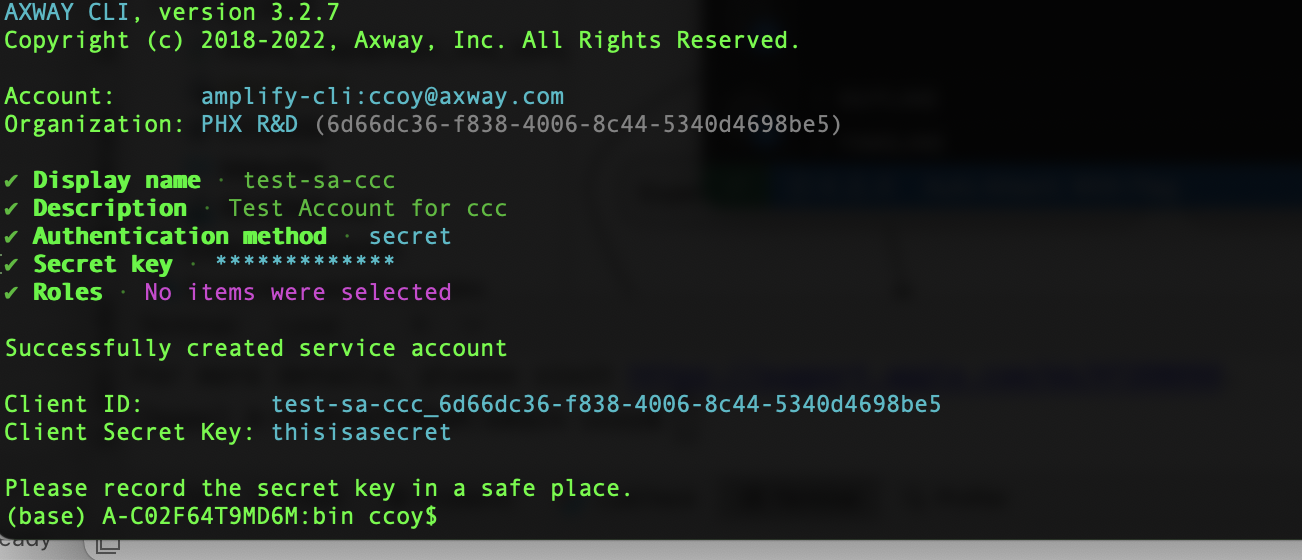
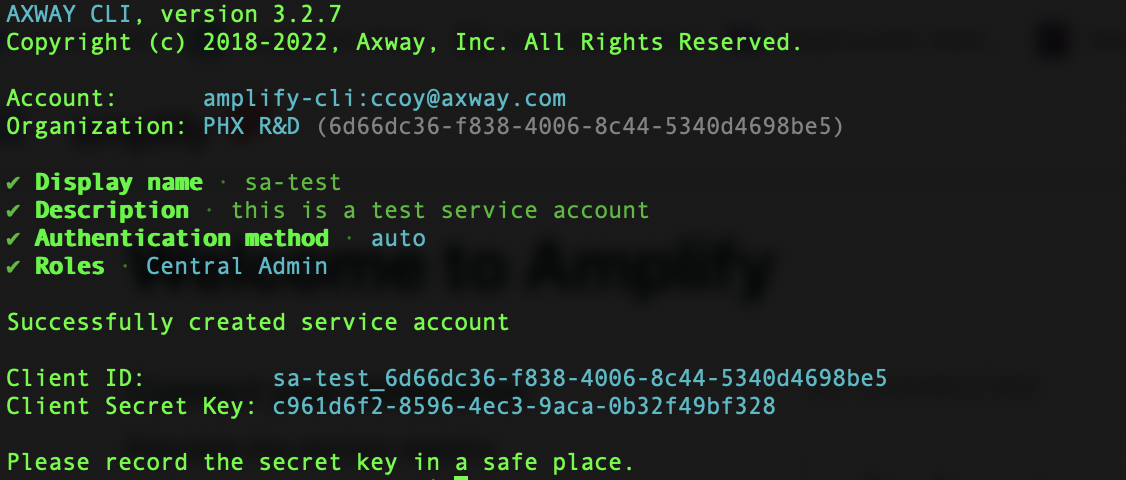
Adding suggestions from lbrenman

Changed region(s): [[0.0, 0.1562, 1.0, 1.0], [0.0, 0.0, 0.7149, 0.125]]

diff --git a/content/en/docs/integrate_with_central/platform-auth-examples.md b/content/en/docs/integrate_with_central/platform-auth-examples.md
@@ -7,13 +7,11 @@ A step-by-step guide for authorizing clients to make REST calls to the Amplify P
 
 1. ***Install the Axway CLI***: [https://docs.axway.com/bundle/axwaycli-open-docs/page/docs/quick\_start/index.html](https://docs.axway.com/bundle/axwaycli-open-docs/page/docs/quick_start/index.html)
 
-2. ***Install JQ***:  [https://github.com/stedolan/jq](https://github.com/stedolan/jq)
+## Create your service account
 
-JQ is needed for parsing the authorization response and extracting the bearer token and org ID required in the HTTP request headers.
+A service account is an Amplify concept that allows for a non-user, such as a CLI or headless process, to gain access to the platform services and will be granted specific roles and privileges within an organization. You can create your service account(s) using the CLI or directly within the UI.
 
-## Create your service account via the CLI
-
-A service account is an Amplify concept that allows for a non-user, such as a CLI or headless process, to gain access to the platform services and will be granted specific roles and privileges within an organization.
+### Create the service account via the CLI
 
 * From the command line, log into the platform using:
 
@@ -41,30 +39,69 @@ A service account is an Amplify concept that allows for a non-user, such as a CL
 
   ![service account list screen](/Images/integration/service-account-list.png)
 
+### Create the service account via the CLI
+
+* From the Platform screen, select the dropdown in the right-hand corner and choose **_Organization_**
+
+  ![organization drop down screen](/Images/integration/organization-drop-down.png)
+
+* From the Service Accounts screen select the button labeled **_+ Service Account_**
+
+  ![ui create service account screen](/Images/integration/ui-create-service-account.png)
+
+* Fillout the following form. Here we are choosing Client Secret, Platform Generated and the Central Admin role. Next, select the button labeled **_Save_**
+
+  ![ui service account form screen](/Images/integration/ui-service-account-form.png)
+
+* You will now be presented with a popup screen where you can copy your generated secret. You need to store this secret as this is the only time it will ever be displayed
+
+  ![ui service account form screen](/Images/integration/ui-service-account-secret.png)
+
+* You now have your service account and can use the Client Id and Secret to Authenticate to the platform
+
+  ![ui service account form screen](/Images/integration/ui-service-account-client-id.png)
+
 ## Using your Service Account
 
 Now that you have created your service account with client and secret, you can reuse this approach in a scripted manner.
 
 ### Authorization
 
+If you are interested in using cURL or Postman, the easiest way to authenticate is by using the CLI. However, in the event that you need to embed authorization within a compiled application, see the section [here](#alternative-approach-to-call-auth-server-directly).
+
 #### Using the CLI Directly
 
-##### Capture the Auth Result as a JSON Body
 
 ```sh
-authResult=$(axway auth login --client-id test-sa-ccc_6d66dc36-f838-4006-8c44-5340d4698be5 --client-secret thisisasecret --json)
+axway auth login --client-id sa-test_6d66dc36-f838-4006-8c44-5340d4698be5 --client-secret c961d6f2-8596-4ec3-9aca-0b32f49bf328 --json
 ```
 
-The command above will fulfill the authorization flow and cause the client ID and Secret to be base64 encoded and then passed to the auth server and then subsequently use the token to call platform services (The alternative-- manual steps, are outlined below for clarity).
 
-##### Extract the Bearer Token and TenantID
+The command above will fulfill the authorization flow and cause the client ID and Secret to be base64 encoded and then passed to the auth server and then subsequently use the token to call platform services. 
 
-```sh
-token=$(echo $authResult | jq -r '.auth.tokens.access_token')
-tenantID=$(echo $authResult | jq -r '.org.id')
+You can extract and use the token from the resulting JSON response:
+
+```
+{
+  "auth": {
+    "authenticator": "ClientSecret",
+    "baseUrl": "https://login.axway.com",
+    "clientId": "sa-test_6d66dc36-f838-4006-8c44-5340d4698be5",
+    "env": "prod",
+    "expires": {
+      "access": 1669920901070,
+      "refresh": null
+    },
+    "realm": "Broker",
+    "tokens": {
+      "access_token": "eyJhbGciOiJSUzI1NiIsInR5cCI...",
+            ...
+      }
+      ...
+}
 ```
 
-#### Alternative approach call auth server directly
+#### Alternative approach to call auth server directly
 
 This approach is more cumbersome, but demonstrates what is necessary if you decide to build an application using a language like JavaScript, Java or Golang.  
 
@@ -83,8 +120,6 @@ curl --location --request POST 'https://login.axway.com/auth/realms/Broker/proto
 --data-urlencode 'grant_type=client_credentials'
 ```
 
-You can extract and use the token from the resulting JSON response:
-
 ```
 {
   "access_token": "eyJhbGciOiJSUzI1NiIsInR5cCIgOiAiSldUIiwia2lkIiA6ICJKLUhJOWxTbE5fYUxMSj...",
@@ -98,15 +133,14 @@ You can extract and use the token from the resulting JSON response:
 
 ### Making the API Calls
 
-Now that you have a valid bearer token and the Tenant ID you can make platform calls as outlined in API docs. For example:  
+Now that you have a valid bearer token and the Tenant ID you can make platform calls as outlined in [Amplify Platform API docs](https://docs.axway.com/category/api). For example:  
 
 #### Calling Central  
 
 ```
 curl --location --request GET 'https://apicentral.axway.com/apis/management/v1alpha1/environments' \
 --header "Authorization: Bearer ${token}" \
---header "Content-Type: application/json" \
---header "X-Axway-Tenant-Id: 652605300303530"
+--header "Content-Type: application/json" 
 ```
 
 #### Calling Tracability
@@ -114,6 +148,13 @@ curl --location --request GET 'https://apicentral.axway.com/apis/management/v1al
 ```
 curl --location --request GET 'https://apicentral.axway.com/api/traceability/v1/traceability/summary?groupBy=proxyId&groupBy=proxyRevision&count=10&offset=0&from=1668895561864&to=1669500361864' \
 --header "Authorization: Bearer ${token}" \
---header "Content-Type: application/json" \
---header "X-Axway-Tenant-Id: 652605300303530"
+--header "Content-Type: application/json" 
+```
+
+#### Calling Platform
+
+```
+curl --location --request GET 'https://platform.axway.com/api/v1/env' \
+--header "Authorization: Bearer ${token}" \
+--header "Content-Type: application/json"
 ```
